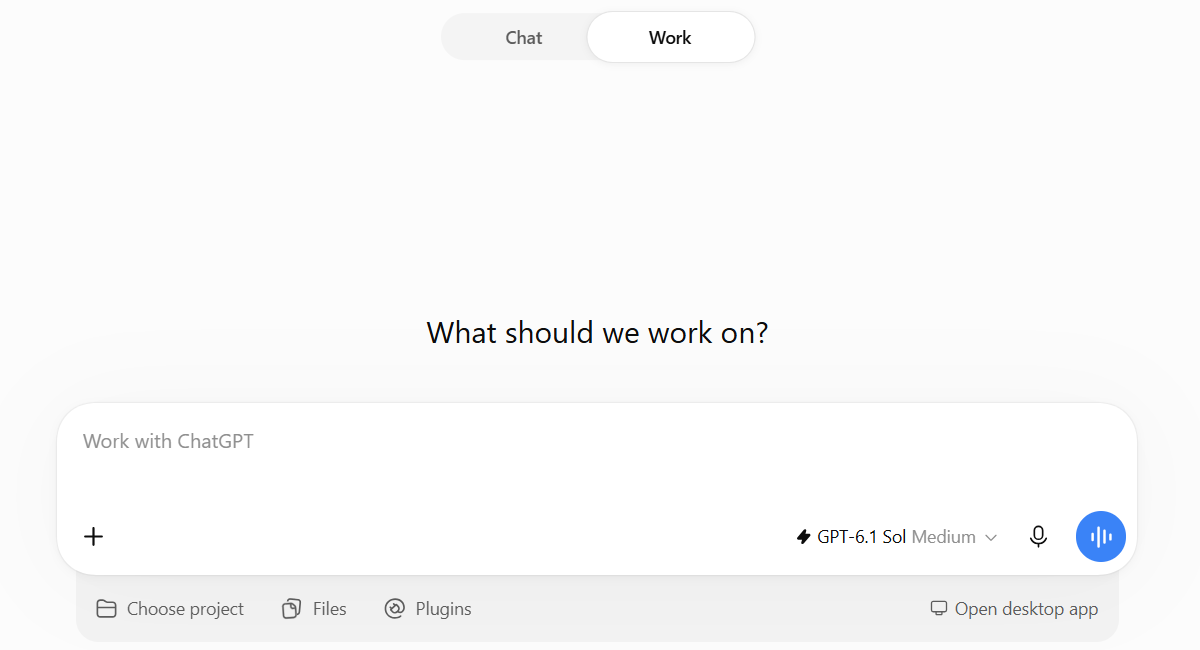
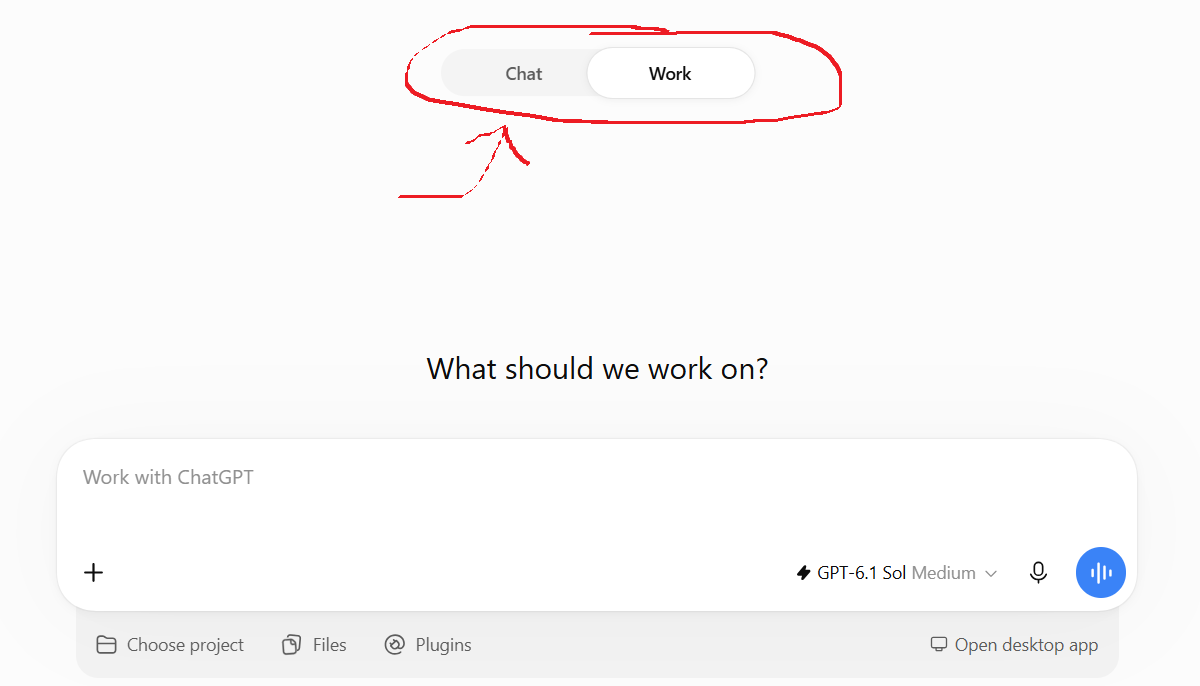
update

diff --git a/docs/posts/gpt-edu/index.html b/docs/posts/gpt-edu/index.html
@@ -168,13 +168,13 @@ ul.task-list li input[type="checkbox"] {
 <li><strong>Chat</strong> è la conversazione classica: domande, testi, codice, analisi di file caricati, ricerche.</li>
 <li><strong>Work</strong> è la modalità “agente”: in pratica è <strong>Codex in cloud</strong>. Stessi modelli, stessi livelli di ragionamento e soprattutto <strong>stessi limiti d’uso</strong> di Codex: quello che consumate in Work non lo avete più per Codex.</li>
 </ul>
+<p><strong>Raccomandazione:</strong> usate <strong>sempre Chat</strong> per le richieste ordinarie, anche impegnative. Il credito Work conviene tenerlo per <strong>Codex</strong> in locale, che per il lavoro su progetti veri è molto più comodo e potente perché lavora direttamente sui vostri file (vedi il punto 7). NON conviene sprecare crediti <strong>Work/Codex</strong> per lavori anche complessi e ad alto ragionamento che possono concludersi in una <strong>Chat</strong>, eventualmente con qualche documento caricato in input e qualche documento scaricato come output.</p>
 <figure class="figure">
 <img src="images/01-work.png" alt="modalità Work di ChatGPT" style="width: 100%; max-width: 800px; height: auto; border: 2px solid #444444;" class="figure-img">
 <figcaption>
 La modalità Work: modello e livello di ragionamento in basso a destra, e sotto la scelta di progetto, file e plugin
 </figcaption>
 </figure>
-<p><strong>Raccomandazione:</strong> usate <strong>sempre Chat</strong> per le richieste ordinarie, anche impegnative. Il credito Work conviene tenerlo per <strong>Codex</strong> in locale, che per il lavoro su progetti veri è molto più comodo e potente perché lavora direttamente sui vostri file (vedi il punto 7).</p>
 </section>
 <section id="modelli-e-livelli-di-ragionamento-la-cosa-più-importante" class="level2">
 <h2 class="anchored" data-anchor-id="modelli-e-livelli-di-ragionamento-la-cosa-più-importante">2. Modelli e livelli di ragionamento: la cosa più importante</h2>

diff --git a/docs/index.html b/docs/index.html
@@ -294,7 +294,7 @@ Claude (Anthropic), Enrico Toffalini
 </a>
 </div>
 </div>
-<div class="quarto-post image-right" data-index="3" data-listing-date-sort="1791669600000" data-listing-file-modified-sort="1792159831237" data-listing-date-modified-sort="NaN" data-listing-reading-time-sort="11" data-listing-word-count-sort="2056">
+<div class="quarto-post image-right" data-index="3" data-listing-date-sort="1791669600000" data-listing-file-modified-sort="1792405871786" data-listing-date-modified-sort="NaN" data-listing-reading-time-sort="11" data-listing-word-count-sort="2089">
 <div class="thumbnail"><a href="./posts/gpt-edu/index.html" class="no-external">
 
 <img loading="lazy" src="./posts/gpt-edu/images/01-work.png" class="thumbnail-image">
